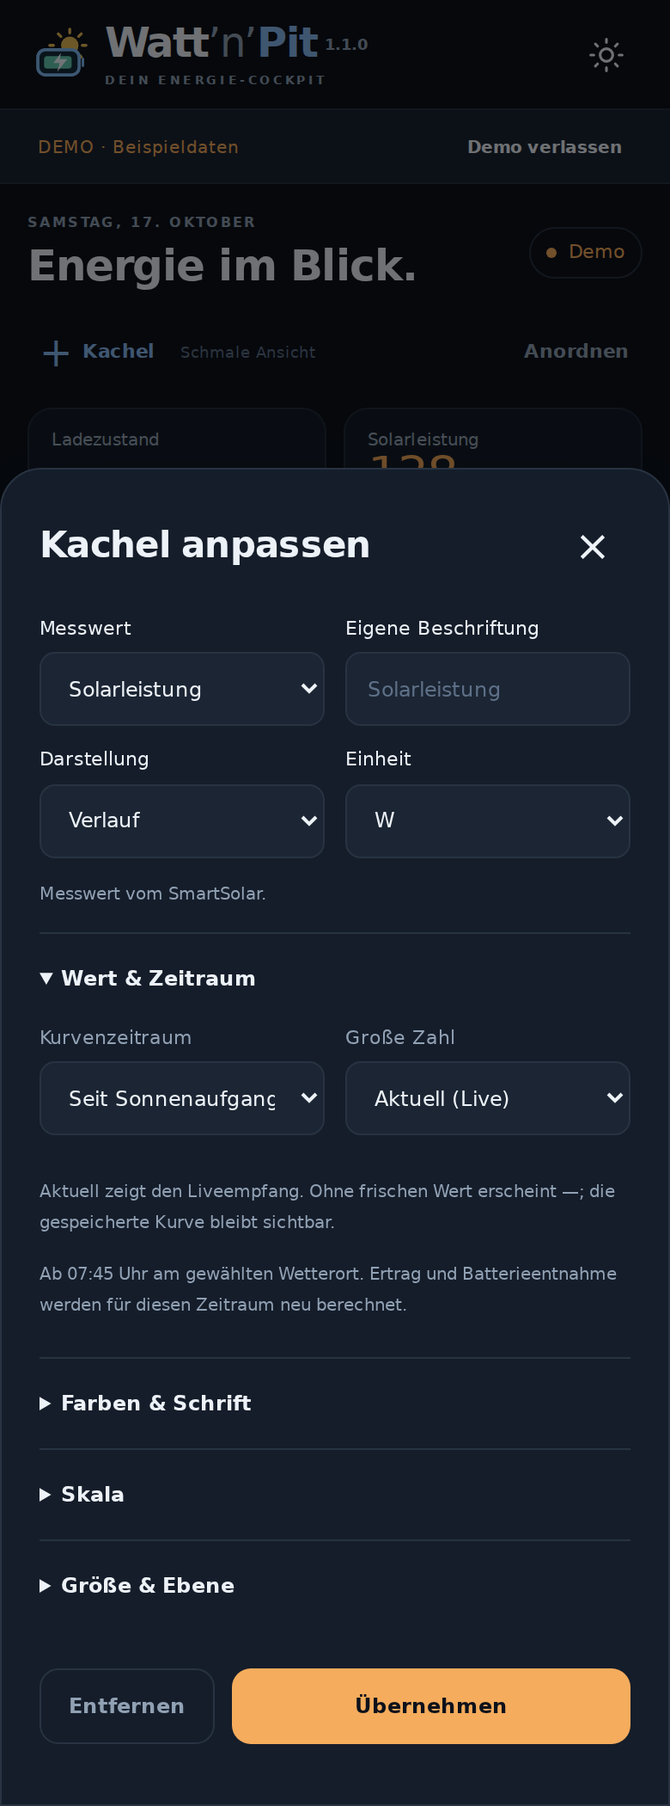
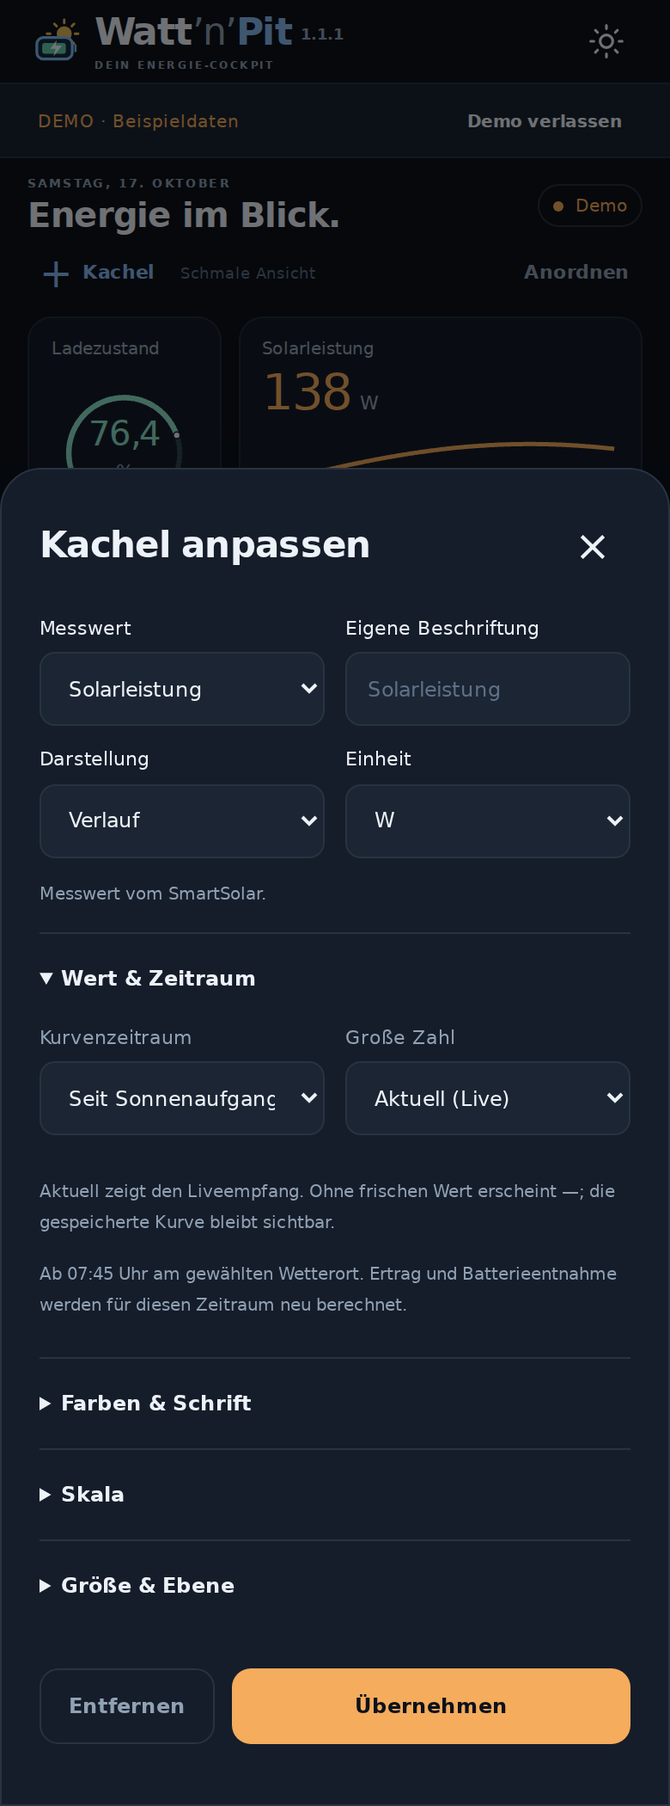
Watt’n’Pit 1.1.1: kompakte Übersicht und neue Standardanordnung
Kacheln und Darstellung aus der Einstellungsdatei übernehmen, Kopfbereich straffen und Anleitung samt neutralen Screenshots aktualisieren.

Validiert: 59 JVM-Tests, 46 Node-Tests, UI-Prüfungen, Android-Lint und Release-Build. Die signierte APK verwendet das bisherige Update-Zertifikat.

diff --git a/app/src/main/assets/dashboard.css b/app/src/main/assets/dashboard.css
@@ -1,8 +1,8 @@
 /* A light frame leaves the space to the values. */
 :root{--tile-line:color-mix(in srgb,var(--border) 72%,transparent)}
-.topbar{padding:10px 18px 9px}.brand{gap:8px}.brandmark{width:35px;height:35px}.wordmark{font-size:24px;letter-spacing:-.8px;font-weight:650}.wordmark .wordmark-n{color:var(--muted);font-weight:450}.wordmark>span:last-of-type{color:var(--blue)}.wordmark small{font-size:9px;border:0;margin-left:5px;padding:0}.brandline{font-size:7px;letter-spacing:1.8px;margin-top:2px}.topbar>.iconbutton{border:0;width:38px;min-width:38px}.pagehead{margin-bottom:13px}.pagehead h1{font-size:25px;font-weight:610;letter-spacing:-.75px}.pagehead .eyebrow{font-size:8px;letter-spacing:1.2px;margin-bottom:3px}main{padding:17px 16px 94px}.card{border-radius:15px;padding:17px;border-color:var(--tile-line)}.welcome{padding:15px;border-left-width:2px;margin-bottom:14px}.welcome h2{font-size:15px}.welcome .row{gap:7px}.welcome .row>button{padding:8px 11px}.dashboard-toolbar{display:flex;align-items:center;justify-content:space-between;gap:8px;margin:0 4px 5px}.dashboard-toolbar>div{display:flex;align-items:center;gap:12px}.dashboard-toolbar .muted{font-size:9px;color:var(--faint)}.dashboard-toolbar>.textbutton{color:var(--muted);font-size:11px}.add-tile{display:flex;align-items:center;gap:6px;font-size:11px;color:var(--blue);font-weight:600;min-height:37px;padding:0 3px}.add-tile>span{font-size:23px;font-weight:350}.dashboard-board{position:relative;margin:0 -5px;isolation:isolate}.cockpit-tile{position:absolute;display:flex;flex-direction:column;min-width:0;border:1px solid var(--tile-line);border-radius:14px;background:var(--tile-bg,var(--panel));padding:11px 13px 9px;overflow:hidden;cursor:pointer;touch-action:pan-y}.cockpit-tile:focus-visible{outline:2px solid var(--blue);outline-offset:1px}.tile-head{display:flex;justify-content:space-between;align-items:center;gap:3px;min-height:14px;flex-shrink:0}.tile-label{color:var(--tile-muted,var(--muted));font-size:10px;font-weight:500;line-height:1.2;min-width:0;white-space:nowrap;overflow:hidden;text-overflow:ellipsis;letter-spacing:.05px}.tile-menu{display:none;align-items:center;justify-content:center;min-height:22px;width:25px;min-width:25px;padding:0;font-size:22px;line-height:1;border-radius:5px;color:var(--blue)}.tile-visual{display:flex;flex-direction:column;justify-content:center;flex:1;min-height:0;min-width:0}.tile-reading{display:flex;align-items:baseline;gap:5px;min-width:0;line-height:1.1;margin:3px 0}.tile-number{font-size:var(--number-size,32px);letter-spacing:-.8px;line-height:1.08;font-weight:530;color:var(--tile-color);font-variant-numeric:tabular-nums;white-space:nowrap;min-width:0}.tile-unit{font-size:11px;color:var(--tile-muted,var(--muted));font-weight:450;letter-spacing:0;white-space:nowrap}.tile-hint{font-size:9px;line-height:1.15;color:var(--tile-muted,var(--muted));overflow:hidden;white-space:nowrap;text-overflow:ellipsis;flex-shrink:0;min-height:10px}.cockpit-tile.no-value .tile-number{color:var(--tile-muted,var(--muted))}.type-gauge{padding-bottom:7px}.tile-gauge{position:relative;max-width:165px;width:100%;height:100%;min-height:0;margin:auto}.tile-gauge>svg{width:100%;height:100%;display:block}.gauge-reading{position:absolute;inset:0;display:flex;align-items:center;justify-content:center;flex-direction:column;gap:4px;padding-top:5px}.gauge-reading .tile-number{font-size:var(--number-size)}.gauge-min,.gauge-max{position:absolute;bottom:3px;font-size:8px;color:var(--tile-muted,var(--muted))}.gauge-min{left:14%}.gauge-max{right:14%}.type-gauge .tile-hint{text-align:center}.tile-sparkline{width:100%;height:100%;min-height:24px;flex:1;margin:4px 0 0}.chart-reading .tile-number{font-size:min(var(--number-size),29px)}.tile-chart-range{display:flex;justify-content:space-between;font-size:8px;color:var(--tile-muted,var(--muted));margin-bottom:5px}.tile-chart-empty{flex:1;display:flex;align-items:center;justify-content:center;color:var(--tile-muted,var(--muted));font-size:10px}.tile-resize{display:none;position:absolute;bottom:0;right:0;width:27px;height:27px;cursor:nwse-resize}.tile-resize:after{content:'';position:absolute;right:6px;bottom:6px;width:8px;height:8px;border-bottom:2px solid var(--blue);border-right:2px solid var(--blue);border-radius:1px}.is-editing .cockpit-tile{touch-action:none;outline:1px dashed color-mix(in srgb,var(--blue) 45%,transparent);cursor:grab}.is-editing .tile-menu,.is-editing .tile-resize{display:flex}.is-editing .tile-label{padding-right:2px}.is-editing .cockpit-tile{padding-top:6px}.is-editing .cockpit-tile.is-dragging{z-index:100;cursor:grabbing;box-shadow:0 4px 24px #0003}.is-editing.dashboard-board{background-image:radial-gradient(var(--border) .8px,transparent .8px);background-size:calc(100% / 12) 26px}.layout-help{font-size:10px;color:var(--muted);margin:0 3px 9px}.dashboard-foot{display:flex;justify-content:space-between;align-items:center;gap:8px;padding:9px 3px 14px;font-size:9px;color:var(--muted)}.dashboard-foot>span:first-child{display:flex;align-items:center;gap:6px}.empty-dashboard{padding:20px;border:1px dashed var(--border);border-radius:14px;text-align:center;font-size:12px;color:var(--muted)}.mini-history{padding:14px 14px 7px}.mini-history h2{font-size:14px;font-weight:550}.mini-history .eyebrow{font-size:7px}.mini-history .section-heading{align-items:center}.mini-history .textbutton{font-size:10px}.mini-legend{margin-top:5px;font-size:9px}#miniChart{height:125px}.info-note{margin:12px 2px}.info-note p{font-size:10px}.record-button{min-height:43px;border-radius:11px;font-size:11px}.bottom-nav{padding-top:7px;padding-bottom:max(7px,env(safe-area-inset-bottom))}.bottom-nav button{min-height:45px;gap:2px}.bottom-nav .icon{width:20px;height:20px}.tile-editor details{border-top:1px solid var(--border);padding:9px 0}.tile-editor summary{padding:8px 0;cursor:pointer;font-size:12px;font-weight:600}.tile-editor details>.form-grid{padding-top:10px}.form-grid{display:grid;grid-template-columns:1fr 1fr;gap:0 12px;min-width:0}.form-grid>*{min-width:0}.tile-editor .form-field{font-size:11px;gap:5px;margin-bottom:12px}.tile-editor input,.tile-editor select{width:100%;font-size:12px;min-width:0}.tile-editor input[type=color]{height:43px;padding:5px;width:100%}.tile-editor input[type=range]{accent-color:var(--blue);padding-left:0;padding-right:0;background:transparent;border:0}.tile-editor .check-field{display:flex;align-items:center;gap:9px;font-size:12px;margin:8px 0 13px}.tile-editor input[type=checkbox]{width:18px;height:18px;min-height:18px;accent-color:var(--blue)}.tile-explanation{font-size:10px!important;margin-bottom:13px!important}.tile-editor details .muted{font-size:10px;margin:12px 0}.tile-editor .row>button{font-size:10px;padding:7px 9px;min-height:36px}.danger-text{color:var(--muted)}.tile-catalog h3{font-size:10px;font-weight:600;color:var(--muted);text-transform:uppercase;letter-spacing:1px;padding:14px 0 5px}.metric-option{width:100%;display:flex;align-items:center;gap:12px;text-align:left;min-height:47px;border-bottom:1px solid var(--tile-line);font-size:12px}.metric-option>i{width:7px;height:7px;border-radius:50%;flex-shrink:0}.metric-option>span{flex:1}.metric-option>b{font-size:20px;font-weight:400;color:var(--muted)}.metric-option:hover{background:var(--panel2)}.settings-card #resetDashboard{margin:12px 0 0;font-size:11px}.about>.brandmark{width:42px;height:42px}
-@media(min-width:700px){.topbar{padding:12px 25px}.brandmark{width:39px;height:39px}.wordmark{font-size:27px}main{padding:23px 23px 100px}.pagehead h1{font-size:29px}.dashboard-board{max-width:100%}.cockpit-tile{padding:13px 17px 10px}.tile-label{font-size:11px}.tile-number{font-weight:550}.tile-hint{font-size:10px}.tile-gauge{max-width:180px}.dashboard-foot{font-size:10px}.is-editing.dashboard-board{background-size:calc(100% / 12) 30px}#miniChart{height:170px}.mini-history{padding:17px}.mini-history h2{font-size:17px}.bottom-nav{padding-left:24%;padding-right:24%}}
-@media(max-width:355px){main{padding-left:12px;padding-right:12px}.topbar{padding-left:14px;padding-right:14px}.wordmark{font-size:23px}.cockpit-tile{padding-left:10px;padding-right:10px}.tile-label{font-size:9px}.tile-number{font-size:min(var(--number-size),30px)}.tile-hint{font-size:8px}.dashboard-toolbar .muted{display:none}.tile-unit{font-size:10px}}
+.topbar{padding:2px 18px}.brand{gap:7px}.brandmark{width:30px;height:30px}.wordmark{font-size:22px;letter-spacing:-.8px;font-weight:650}.wordmark .wordmark-n{color:var(--muted);font-weight:450}.wordmark>span:last-of-type{color:var(--blue)}.wordmark small{font-size:9px;border:0;margin-left:5px;padding:0}.brandline{font-size:6px;letter-spacing:1.4px;margin-top:0}.topbar>.iconbutton{border:0;width:38px;min-width:38px}.pagehead{margin-bottom:13px}.pagehead h1{font-size:25px;font-weight:610;letter-spacing:-.75px}.pagehead .eyebrow{font-size:8px;letter-spacing:1.2px;margin-bottom:3px}main{padding:10px 16px 94px}#overview>.pagehead{margin-bottom:4px}#overview>.pagehead h1{font-size:20px;letter-spacing:-.5px}#overview>.pagehead .eyebrow{font-size:7px;margin-bottom:0}#overview .status-chip{padding:4px 8px;font-size:10px}.card{border-radius:15px;padding:17px;border-color:var(--tile-line)}.welcome{padding:15px;border-left-width:2px;margin-bottom:14px}.welcome h2{font-size:15px}.welcome .row{gap:7px}.welcome .row>button{padding:8px 11px}.dashboard-toolbar{display:flex;align-items:center;justify-content:space-between;gap:8px;margin:0 4px 1px}.dashboard-toolbar>div{display:flex;align-items:center;gap:12px}.dashboard-toolbar .muted{font-size:9px;color:var(--faint)}.dashboard-toolbar>.textbutton{min-height:36px;color:var(--muted);font-size:11px}.add-tile{display:flex;align-items:center;gap:6px;font-size:11px;color:var(--blue);font-weight:600;min-height:36px;padding:0 3px}.add-tile>span{font-size:23px;font-weight:350}.dashboard-board{position:relative;margin:0 -5px;isolation:isolate}.cockpit-tile{position:absolute;display:flex;flex-direction:column;min-width:0;border:1px solid var(--tile-line);border-radius:14px;background:var(--tile-bg,var(--panel));padding:11px 13px 9px;overflow:hidden;cursor:pointer;touch-action:pan-y}.cockpit-tile:focus-visible{outline:2px solid var(--blue);outline-offset:1px}.tile-head{display:flex;justify-content:space-between;align-items:center;gap:3px;min-height:14px;flex-shrink:0}.tile-label{color:var(--tile-muted,var(--muted));font-size:10px;font-weight:500;line-height:1.2;min-width:0;white-space:nowrap;overflow:hidden;text-overflow:ellipsis;letter-spacing:.05px}.tile-menu{display:none;align-items:center;justify-content:center;min-height:22px;width:25px;min-width:25px;padding:0;font-size:22px;line-height:1;border-radius:5px;color:var(--blue)}.tile-visual{display:flex;flex-direction:column;justify-content:center;flex:1;min-height:0;min-width:0}.tile-reading{display:flex;align-items:baseline;gap:5px;min-width:0;line-height:1.1;margin:3px 0}.tile-number{font-size:var(--number-size,32px);letter-spacing:-.8px;line-height:1.08;font-weight:530;color:var(--tile-color);font-variant-numeric:tabular-nums;white-space:nowrap;min-width:0}.tile-unit{font-size:11px;color:var(--tile-muted,var(--muted));font-weight:450;letter-spacing:0;white-space:nowrap}.tile-hint{font-size:9px;line-height:1.15;color:var(--tile-muted,var(--muted));overflow:hidden;white-space:nowrap;text-overflow:ellipsis;flex-shrink:0;min-height:10px}.cockpit-tile.no-value .tile-number{color:var(--tile-muted,var(--muted))}.type-gauge{padding-bottom:7px}.tile-gauge{position:relative;max-width:165px;width:100%;height:100%;min-height:0;margin:auto}.tile-gauge>svg{width:100%;height:100%;display:block}.gauge-reading{position:absolute;inset:0;display:flex;align-items:center;justify-content:center;flex-direction:column;gap:4px;padding-top:5px}.gauge-reading .tile-number{font-size:var(--number-size)}.gauge-min,.gauge-max{position:absolute;bottom:3px;font-size:8px;color:var(--tile-muted,var(--muted))}.gauge-min{left:14%}.gauge-max{right:14%}.type-gauge .tile-hint{text-align:center}.tile-sparkline{width:100%;height:100%;min-height:24px;flex:1;margin:4px 0 0}.chart-reading .tile-number{font-size:min(var(--number-size),29px)}.tile-chart-range{display:flex;justify-content:space-between;font-size:8px;color:var(--tile-muted,var(--muted));margin-bottom:5px}.tile-chart-empty{flex:1;display:flex;align-items:center;justify-content:center;color:var(--tile-muted,var(--muted));font-size:10px}.tile-resize{display:none;position:absolute;bottom:0;right:0;width:27px;height:27px;cursor:nwse-resize}.tile-resize:after{content:'';position:absolute;right:6px;bottom:6px;width:8px;height:8px;border-bottom:2px solid var(--blue);border-right:2px solid var(--blue);border-radius:1px}.is-editing .cockpit-tile{touch-action:none;outline:1px dashed color-mix(in srgb,var(--blue) 45%,transparent);cursor:grab}.is-editing .tile-menu,.is-editing .tile-resize{display:flex}.is-editing .tile-label{padding-right:2px}.is-editing .cockpit-tile{padding-top:6px}.is-editing .cockpit-tile.is-dragging{z-index:100;cursor:grabbing;box-shadow:0 4px 24px #0003}.is-editing.dashboard-board{background-image:radial-gradient(var(--border) .8px,transparent .8px);background-size:calc(100% / 12) 26px}.layout-help{font-size:10px;color:var(--muted);margin:0 3px 9px}.dashboard-foot{display:flex;justify-content:space-between;align-items:center;gap:8px;padding:9px 3px 14px;font-size:9px;color:var(--muted)}.dashboard-foot>span:first-child{display:flex;align-items:center;gap:6px}.empty-dashboard{padding:20px;border:1px dashed var(--border);border-radius:14px;text-align:center;font-size:12px;color:var(--muted)}.mini-history{padding:14px 14px 7px}.mini-history h2{font-size:14px;font-weight:550}.mini-history .eyebrow{font-size:7px}.mini-history .section-heading{align-items:center}.mini-history .textbutton{font-size:10px}.mini-legend{margin-top:5px;font-size:9px}#miniChart{height:125px}.info-note{margin:12px 2px}.info-note p{font-size:10px}.record-button{min-height:43px;border-radius:11px;font-size:11px}.bottom-nav{padding-top:7px;padding-bottom:max(7px,env(safe-area-inset-bottom))}.bottom-nav button{min-height:45px;gap:2px}.bottom-nav .icon{width:20px;height:20px}.tile-editor details{border-top:1px solid var(--border);padding:9px 0}.tile-editor summary{padding:8px 0;cursor:pointer;font-size:12px;font-weight:600}.tile-editor details>.form-grid{padding-top:10px}.form-grid{display:grid;grid-template-columns:1fr 1fr;gap:0 12px;min-width:0}.form-grid>*{min-width:0}.tile-editor .form-field{font-size:11px;gap:5px;margin-bottom:12px}.tile-editor input,.tile-editor select{width:100%;font-size:12px;min-width:0}.tile-editor input[type=color]{height:43px;padding:5px;width:100%}.tile-editor input[type=range]{accent-color:var(--blue);padding-left:0;padding-right:0;background:transparent;border:0}.tile-editor .check-field{display:flex;align-items:center;gap:9px;font-size:12px;margin:8px 0 13px}.tile-editor input[type=checkbox]{width:18px;height:18px;min-height:18px;accent-color:var(--blue)}.tile-explanation{font-size:10px!important;margin-bottom:13px!important}.tile-editor details .muted{font-size:10px;margin:12px 0}.tile-editor .row>button{font-size:10px;padding:7px 9px;min-height:36px}.danger-text{color:var(--muted)}.tile-catalog h3{font-size:10px;font-weight:600;color:var(--muted);text-transform:uppercase;letter-spacing:1px;padding:14px 0 5px}.metric-option{width:100%;display:flex;align-items:center;gap:12px;text-align:left;min-height:47px;border-bottom:1px solid var(--tile-line);font-size:12px}.metric-option>i{width:7px;height:7px;border-radius:50%;flex-shrink:0}.metric-option>span{flex:1}.metric-option>b{font-size:20px;font-weight:400;color:var(--muted)}.metric-option:hover{background:var(--panel2)}.settings-card #resetDashboard{margin:12px 0 0;font-size:11px}.about>.brandmark{width:42px;height:42px}
+@media(min-width:700px){.topbar{padding:4px 25px}.brandmark{width:32px;height:32px}.wordmark{font-size:24px}main{padding:12px 23px 100px}.pagehead h1{font-size:29px}#overview>.pagehead h1{font-size:22px}.dashboard-board{max-width:100%}.cockpit-tile{padding:13px 17px 10px}.tile-label{font-size:11px}.tile-number{font-weight:550}.tile-hint{font-size:10px}.tile-gauge{max-width:180px}.dashboard-foot{font-size:10px}.is-editing.dashboard-board{background-size:calc(100% / 12) 30px}#miniChart{height:170px}.mini-history{padding:17px}.mini-history h2{font-size:17px}.bottom-nav{padding-left:24%;padding-right:24%}}
+@media(max-width:355px){main{padding-left:12px;padding-right:12px}.topbar{padding-left:14px;padding-right:14px}.wordmark{font-size:21px}.cockpit-tile{padding-left:10px;padding-right:10px}.tile-label{font-size:9px}.tile-number{font-size:min(var(--number-size),30px)}.tile-hint{font-size:8px}.dashboard-toolbar .muted{display:none}.tile-unit{font-size:10px}}
 .short-tile{padding-top:9px;padding-bottom:8px}.short-tile .tile-hint{display:none}.short-tile .tile-number{font-size:min(var(--number-size),29px)}.short-tile .tile-reading{margin:3px 0 0}.cockpit-tile{user-select:none}
 
 .mini-range{display:flex;align-items:center;justify-content:space-between;gap:12px;font-size:11px;color:var(--muted);margin-top:12px}.mini-range select{max-width:220px;font-size:11px}.mini-history #miniPeriodNote{font-size:10px;margin-top:8px}.energy-note{margin:10px 0 14px;line-height:1.7}

diff --git a/app/src/main/assets/index.html b/app/src/main/assets/index.html
@@ -11,7 +11,7 @@
 </head>
 <body>
 <header class="topbar">
-  <div class="brand"><img class="brandmark" src="brand.svg" alt="Sonne und Batterie"><div><div class="wordmark">Watt<span class="wordmark-n">’n’</span><span>Pit</span><small>1.1.0</small></div><div class="brandline">DEIN ENERGIE-COCKPIT</div></div></div>
+  <div class="brand"><img class="brandmark" src="brand.svg" alt="Sonne und Batterie"><div><div class="wordmark">Watt<span class="wordmark-n">’n’</span><span>Pit</span><small>1.1.1</small></div><div class="brandline">DEIN ENERGIE-COCKPIT</div></div></div>
   <button class="iconbutton" id="themeToggle" aria-label="Farbschema wechseln"></button>
 </header>
 <div id="demoBar" class="demo-bar" hidden><span>DEMO · Beispieldaten</span><button id="exitDemo">Demo verlassen</button></div>
@@ -67,7 +67,7 @@
   <article class="card settings-card"><div class="section-heading"><div><h2>Deine Solaranlage</h2><p id="equipmentTotal" class="muted"></p></div><button id="editEquipment" class="textbutton">Bearbeiten</button></div><div id="equipmentGroups"></div><p class="muted equipment-disclaimer">Hier beschreibst du deine Module und Regler. Die Angaben ändern keine Geräteparameter. Livewerte kommen weiterhin vom jeweiligen Messgerät.</p></article>
   <article class="card settings-card"><h2>Einstellungen sichern</h2><p class="muted">Kacheln samt Anordnung, Farben, Zeiträume, Wetterort und Solaranlage als Datei sichern oder wieder einlesen. Ohne Messdaten, Geräteadressen, PINs und Verbindungsschlüssel.</p><div class="row"><button class="quiet" id="exportConfiguration">Einstellungen exportieren</button><button class="quiet" id="importConfiguration">Einstellungen importieren</button></div></article>
   <article class="card settings-card"><h2>Lokal. Ohne Konto.</h2><p class="muted">Watt’n’Pit empfängt deine Geräte direkt. Messwerte und Geräteschlüssel bleiben auf diesem Telefon. Kein Konto, keine Werbung. Nur die optionale Ortssuche und Wettervorschau nutzen Internet: Suchtext bzw. Ortskoordinaten gehen an Open-Meteo. Energiedaten und Geräteschlüssel werden nicht übertragen.</p><div class="row"><button class="quiet" id="settingsImport">CSV importieren</button><button class="quiet" id="settingsExport">CSV exportieren</button></div></article>
-  <div class="about"><img class="brandmark" src="brand.svg" alt="Sonne und Batterie"><strong>Watt’n’Pit 1.1.0</strong><p>Dein Energie-Cockpit.</p><button class="textbutton" id="settingsDemo">Demo ansehen</button></div>
+  <div class="about"><img class="brandmark" src="brand.svg" alt="Sonne und Batterie"><strong>Watt’n’Pit 1.1.1</strong><p>Dein Energie-Cockpit.</p><button class="textbutton" id="settingsDemo">Demo ansehen</button></div>
 </section>
 </main>
 <nav class="bottom-nav" aria-label="Hauptnavigation"><button data-page="overview" class="active"><span id="navOverview"></span>Übersicht</button><button data-page="history"><span id="navHistory"></span>Verlauf</button><button data-page="devices"><span id="navDevices"></span>Geräte</button><button data-page="settings"><span id="navSettings"></span>Einstellungen</button></nav>

diff --git a/app/src/main/assets/dashboard-core.js b/app/src/main/assets/dashboard-core.js
@@ -114,10 +114,10 @@
     return result;
   }
   function defaults() {
-    const ids=['soc','solar','dischargeEnergy','solarEnergy','voltage','remaining','power','weather'];
+    const ids=['soc','solar','energyBalance','solarEnergy','voltage','power','weather','dischargeEnergy'];
     const layouts={
-      compact:[[0,0,6,6],[6,0,6,5],[0,6,6,5],[6,5,6,6],[0,11,4,4],[4,11,4,4],[8,11,4,4],[0,15,12,4]],
-      wide:[[0,0,4,6],[4,3,4,3],[0,9,4,6],[8,0,4,3],[0,6,6,3],[4,0,4,3],[8,3,4,3],[0,15,12,4]]
+      compact:[[0,0,4,6],[4,0,8,6],[0,6,6,6],[6,6,6,6],[0,12,4,3],[0,15,4,3],[0,18,12,4],[4,12,8,6]],
+      wide:[[0,0,4,6],[4,3,4,3],[0,9,4,6],[8,0,4,3],[0,6,6,3],[8,3,4,3],[0,15,12,4],[0,19,4,6]]
     };
     return {version:1,dischargeSignVersion:1,blockOrder:[...BLOCK_ORDER],tiles:ids.map((id,i)=>{
       const t=tile(id,'default-'+id);
@@ -125,6 +125,7 @@
       if(id==='soc'){t.fontSize=20;t.scaleMode='auto';}
       if(id==='solar'){t.type='chart';t.scaleMode='auto';t.valueMode='live';t.period.mode='sunrise';}
       if(id==='solarEnergy')t.period.mode='sunrise';
+      if(id==='power')t.title='Aktuell';
       return t;
     })};
   }

diff --git a/app/src/main/java/de/wattpit/app/Repository.java b/app/src/main/java/de/wattpit/app/Repository.java
@@ -40,7 +40,7 @@ final class Repository {
         JSONObject all=new JSONObject(prefs.getString("archiveDiagnostics","{}"));all.put(kind,result);prefs.edit().putString("archiveDiagnostics",all.toString()).apply();
     }
     synchronized String diagnosticText()throws JSONException{
-        JSONObject all=new JSONObject(prefs.getString("archiveDiagnostics","{}"));StringBuilder text=new StringBuilder("Watt’n’Pit 1.1.0 · Archivdiagnose\n");
+        JSONObject all=new JSONObject(prefs.getString("archiveDiagnostics","{}"));StringBuilder text=new StringBuilder("Watt’n’Pit 1.1.1 · Archivdiagnose\n");
         for(String kind:new String[]{"solar","shunt"}){
             JSONObject d=all.optJSONObject(kind);if(d==null)continue;text.append(kind.equals("solar")?"\nSolarladeregler\n":"\nBatteriewächter\n");
             text.append(d.optString("result")).append('\n');JSONArray lines=d.optJSONArray("steps");if(lines!=null)for(int i=0;i<lines.length();i++)text.append("· ").append(lines.getString(i)).append('\n');

diff --git a/README.md b/README.md
@@ -2,23 +2,25 @@
 
 **Dein Energie-Cockpit.** Solar, Akku und Batteriebilanz auf einen Blick – direkt über Bluetooth, mit lokaler Aufzeichnung und frei gestaltbarer Übersicht.
 
-**[Android-APK 1.1.0 herunterladen](https://github.com/Tim-Gurke/Watt-n-Pit/releases/download/v1.1.0/Watt-n-Pit-v1.1.0.apk)** · [Release](https://github.com/Tim-Gurke/Watt-n-Pit/releases/latest) · **[Anleitung mit Screenshots](docs/ANLEITUNG.md)** · [CSV-Import](docs/CSV-IMPORT.md)
+**[Android-APK 1.1.1 herunterladen](https://github.com/Tim-Gurke/Watt-n-Pit/releases/download/v1.1.1/Watt-n-Pit-v1.1.1.apk)** · [Release](https://github.com/Tim-Gurke/Watt-n-Pit/releases/latest) · **[Anleitung mit Screenshots](docs/ANLEITUNG.md)** · [CSV-Import](docs/CSV-IMPORT.md)
 
 Android 8 oder neuer · Kein Konto · Keine Werbung · Unabhängiges Projekt, kein offizielles Victron-Produkt.
 
 ## So sieht es aus
 
-Die Screenshots zeigen die App-Oberfläche von **1.1.0 mit frei erfundenen Beispieldaten**. Wetterort und Gerätekennungen sind neutral; private Messungen und Verbindungscodes werden nicht veröffentlicht.
+Die Screenshots zeigen die App-Oberfläche von **1.1.1 mit frei erfundenen Beispieldaten**. Wetterort und Gerätekennungen sind neutral; private Messungen und Verbindungscodes werden nicht veröffentlicht.
 
 | Dunkles Design | Helles Design |
 |---|---|
-| ![Watt’n’Pit 1.1.0: Übersicht mit Solar-, Akku- und Wetterkacheln, dunkel](docs/images/overview-dark.png) | ![Dieselbe Übersicht im hellen Design](docs/images/overview-light.png) |
+| ![Watt’n’Pit 1.1.1: Übersicht mit Solar-, Akku- und Wetterkacheln, dunkel](docs/images/overview-dark.png) | ![Dieselbe Übersicht im hellen Design](docs/images/overview-light.png) |
 
-*Die Standardübersicht: Ladezustand und aktuelle Solarleistung oben, negative Batterieentnahme und berechneter Solarertrag darunter, anschließend Batteriespannung, Restlaufzeit in Stunden und Batteriebilanz. Die flache Wetterkachel schließt den Kachelblock ab.*
+*Die Standardübersicht: Ladezustand und aktuelle Solarleistung oben, „Ertrag − Entnahme“ und berechneter Solarertrag darunter. Anschließend stehen Batteriespannung und aktuelle Batteriebilanz links neben der negativen Batterieentnahme. Die flache Wetterkachel schließt den Kachelblock ab.*
 
-Solarleistung und berechneter Solarertrag beginnen standardmäßig **seit Sonnenaufgang**; die Batterieentnahme zählt **ab Tagesbeginn**. Alle drei Verlaufskacheln verwenden automatische Skalen. Neue Installationen und „Standardübersicht wiederherstellen“ erhalten diese Anordnung; beim Update bleiben gespeicherte eigene Übersichten erhalten.
+Solarleistung und berechneter Solarertrag beginnen standardmäßig **seit Sonnenaufgang**; „Ertrag − Entnahme“ und Batterieentnahme zählen **ab Tagesbeginn**. Alle vier Verlaufskacheln verwenden automatische Skalen. Neue Installationen und „Standardübersicht wiederherstellen“ erhalten diese Anordnung; beim Update bleiben gespeicherte eigene Übersichten erhalten.
 
-## Das kann 1.1.0
+Appkopf, Datum, Überschrift und Kachelwerkzeuge sind kompakter: Die Messwerte beginnen auf schmalen Bildschirmen rund 54 Pixel weiter oben als in 1.1.0. Die Restlaufzeit bleibt unter **+ Kachel → Akku → Restlaufzeit** verfügbar.
+
+## Das kann 1.1.1
 
 - **Direkter Empfang:** SmartSolar und SmartShunt liefern Livewerte über die Bluetooth-Sofortanzeige. Messdaten und Geräteschlüssel bleiben auf dem Telefon.
 - **Archive automatisch ergänzen:** Beim App-Start liest Watt’n’Pit vorhandene Gerätearchive nacheinander ein. Vorhandene Werte werden abgeglichen, Lücken ergänzt und Archivpunkte nicht doppelt gespeichert.
@@ -37,7 +39,7 @@ Solarleistung und berechneter Solarertrag beginnen standardmäßig **seit Sonnen
 
 ## In fünf Schritten starten
 
-1. Die [APK herunterladen](https://github.com/Tim-Gurke/Watt-n-Pit/releases/download/v1.1.0/Watt-n-Pit-v1.1.0.apk) und installieren. Für Updates die neue APK über die bestehende Installation installieren.
+1. Die [APK herunterladen](https://github.com/Tim-Gurke/Watt-n-Pit/releases/download/v1.1.1/Watt-n-Pit-v1.1.1.apk) und installieren. Für Updates die neue APK über die bestehende Installation installieren.
 2. In **VictronConnect → Einstellungen → ⋮ → Produktinfo** die **Sofortanzeige über Bluetooth** des jeweiligen Geräts einschalten.
 3. Unter **Sofortanzeige-Details → Anzeigen** die Geräteadresse und den **32-stelligen Verschlüsselungsschlüssel** übernehmen.
 4. In Watt’n’Pit unter **Geräte → Suche starten** das Gerät einrichten oder mit **+** manuell hinzufügen. Jeder Geräteschlüssel gehört zu genau einem Gerät.
@@ -73,11 +75,11 @@ Nur die optionale Ortssuche und Wettervorschau nutzen Internet: Suchtext bzw. Or
 
 ## Kompatibilität und Stand
 
-SmartSolar 75/15 mit Bluetooth und SmartShunt 300 A wurden an realer Hardware erprobt. Der vollständige Archivimport und die Verlaufsanzeige sind seit 0.1.5 bestätigt; Übersicht und kompakte Wetterkachel wurden bis 0.1.9 ebenfalls am Android-Gerät bestätigt. Die neuen Standardzeiträume und beide Anordnungen von 1.1.0 werden zusätzlich automatisiert geprüft. Weitere Victron-Geräte sind **nicht pauschal als kompatibel bestätigt**. In dieser Version lässt sich je ein SmartSolar und ein SmartShunt einrichten.
+SmartSolar 75/15 mit Bluetooth und SmartShunt 300 A wurden an realer Hardware erprobt. Der vollständige Archivimport und die Verlaufsanzeige sind seit 0.1.5 bestätigt; Übersicht und kompakte Wetterkachel wurden bis 0.1.9 ebenfalls am Android-Gerät bestätigt. Die neuen Standardzeiträume und beide Anordnungen von 1.1.1 werden zusätzlich automatisiert geprüft. Weitere Victron-Geräte sind **nicht pauschal als kompatibel bestätigt**. In dieser Version lässt sich je ein SmartSolar und ein SmartShunt einrichten.
 
 Die App ändert keine Ladeparameter und löscht keine Gerätetrends. Temperatur und Zusatzspannung benötigen einen entsprechend eingerichteten Geräteeingang. Eine lang laufende Aufzeichnung kann durch Android-Energiespareinstellungen begrenzt werden.
 
-Automatisierte Prüfung: **59 JVM-Tests, 46 Node-Tests**, Android-Lint und Android-Build sowie Browserprüfungen für Bedienung, Speicherung, Importabgleich, Sonnenaufgang, Skalen, Energiekurven und Farbdesigns. Die neue Vergleichskachel wurde zusätzlich mit Darstellung, Einheitenwechsel, fehlenden Werten und Einstellungsexport/-import geprüft. Die Android-Dateiauswahl für Einstellungssicherungen ist zusätzlich am Gerät zu bestätigen. [Versionshinweise](docs/releases/1.1.0.md) · [Technische Grundlage](docs/ARCHITECTURE.md)
+Automatisierte Prüfung: **59 JVM-Tests, 46 Node-Tests**, Android-Lint und Android-Build sowie Browserprüfungen für Bedienung, Speicherung, Importabgleich, Sonnenaufgang, Skalen, Energiekurven und Farbdesigns. Die neue Vergleichskachel wurde zusätzlich mit Darstellung, Einheitenwechsel, fehlenden Werten und Einstellungsexport/-import geprüft. Die Android-Dateiauswahl für Einstellungssicherungen ist zusätzlich am Gerät zu bestätigen. [Versionshinweise](docs/releases/1.1.1.md) · [Technische Grundlage](docs/ARCHITECTURE.md)
 
 ## Entwicklung
 

diff --git a/docs/ANLEITUNG.md b/docs/ANLEITUNG.md
@@ -1,6 +1,6 @@
 # Watt’n’Pit bedienen
 
-Für Version **1.1.0** · [APK herunterladen](https://github.com/Tim-Gurke/Watt-n-Pit/releases/download/v1.1.0/Watt-n-Pit-v1.1.0.apk) · [Zur Projektübersicht](../README.md)
+Für Version **1.1.1** · [APK herunterladen](https://github.com/Tim-Gurke/Watt-n-Pit/releases/download/v1.1.1/Watt-n-Pit-v1.1.1.apk) · [Zur Projektübersicht](../README.md)
 
 Watt’n’Pit zeigt Solarleistung, Batteriezustand und gespeicherte Verläufe direkt auf deinem Android-Telefon. Die folgenden Screenshots stammen aus der App-Oberfläche mit **frei erfundenen Beispieldaten**. Wetterort und Gerätekennungen sind Beispiele; es sind keine privaten Verbindungsdaten enthalten. Eine sichtbare Demo liest keine Bluetooth-Geräte aus.
 
@@ -39,9 +39,11 @@ Falls nichts ankommt: Bluetooth und Reichweite prüfen, VictronConnect vom Gerä
 
 *Sieben Messkacheln und die kompakte Wetterkachel bilden den Standard. Werte, Farben, Größe und Position lassen sich anpassen.*
 
-Auf schmalen Bildschirmen stehen Ladezustand und Solarleistung oben. Darunter folgen negative Batterieentnahme und berechneter Solarertrag; die Dreierreihe zeigt Batteriespannung, Restlaufzeit in Stunden und Batteriebilanz. Das Wetter liegt flach über die gesamte Breite. Anschließend folgen Verlauf und Start/Pause.
+Auf schmalen Bildschirmen stehen der schmale Ladezustand und die breitere Solarleistung oben. Darunter folgen „Ertrag − Entnahme“ und berechneter Solarertrag nebeneinander. Batteriespannung und die mit „Aktuell“ beschriftete Batteriebilanz stehen links übereinander; rechts liegt die größere negative Batterieentnahme. Das Wetter liegt flach über die gesamte Breite. Anschließend folgen Verlauf und Start/Pause. Der Appkopf und „Energie im Blick“ benötigen weniger Höhe.
 
-Solarleistung und berechneter Solarertrag zeigen im Standard die Zeit **seit Sonnenaufgang**. Die Batterieentnahme bezieht sich auf **heute ab Mitternacht**. Die drei Verlaufskacheln passen ihre Skalen automatisch an die vorhandenen Werte an. Die breite Ansicht besitzt eine eigene gespeicherte Anordnung.
+Die Restlaufzeit kann über **+ Kachel → Akku → Restlaufzeit** ergänzt werden; Stunden sind weiterhin die voreingestellte Einheit.
+
+Solarleistung und berechneter Solarertrag zeigen im Standard die Zeit **seit Sonnenaufgang**. „Ertrag − Entnahme“ und Batterieentnahme beziehen sich auf **heute ab Mitternacht**. Die vier Verlaufskacheln passen ihre Skalen automatisch an die vorhandenen Werte an. Die breite Ansicht besitzt eine eigene gespeicherte Anordnung.
 
 **+ Kachel** öffnet die Auswahl. Neue Kacheln erscheinen am Ende des Rasters. Eine Messkachel antippen, um Beschriftung, Einheit, Darstellung und Zeitraum zu ändern. Als Darstellung stehen je nach Messgröße Zahl, Rundinstrument oder Verlauf zur Wahl.
 
@@ -121,7 +123,7 @@ Die Wetterkachel liegt im selben Raster wie die Messkacheln. **Anordnen** macht 
 
 *Einstellungen → Deine Solaranlage → Bearbeiten: Modulgruppen beschreiben und ihre Messwertquelle zuordnen. Die gezeigten Angaben sind frei erfunden.*
 
-Pro Solarkreis lassen sich Bezeichnung, Modulanzahl, Wp pro Modul, Montage und Regler eintragen. Als Messwertquelle stehen Bluetooth-Solarladeregler, Batteriebilanz des Shunts oder kein eigener Messwert zur Wahl. Die Nennleistung beschreibt deine Hardware; sie ersetzt keine Messung und ändert keine Geräteparameter. In 1.1.0 kann je ein SmartSolar und ein SmartShunt eingerichtet werden.
+Pro Solarkreis lassen sich Bezeichnung, Modulanzahl, Wp pro Modul, Montage und Regler eintragen. Als Messwertquelle stehen Bluetooth-Solarladeregler, Batteriebilanz des Shunts oder kein eigener Messwert zur Wahl. Die Nennleistung beschreibt deine Hardware; sie ersetzt keine Messung und ändert keine Geräteparameter. In 1.1.1 kann je ein SmartSolar und ein SmartShunt eingerichtet werden.
 
 ## 8. Einstellungen und Messdaten sichern
 

diff --git a/docs/releases/1.1.1.md b/docs/releases/1.1.1.md
@@ -1,0 +1,21 @@
+# Watt’n’Pit 1.1.1 – Mehr Platz für die Messwerte
+
+Die Standardübersicht übernimmt die gewünschte Kachelanordnung und Darstellung aus der aktuellen Einstellungsdatei. Der Kopfbereich wird flacher.
+
+- Oben stehen der schmale **Ladezustand** und die breitere **Solarleistung**.
+- Darunter liegen **Ertrag − Entnahme** und **Solarertrag berechnet** nebeneinander.
+- **Batteriespannung** und **Aktuell** stehen links übereinander; die größere **Batterieentnahme berechnet** liegt rechts daneben. Das Wetter schließt den Kachelblock über die gesamte Breite ab.
+- Größen und Positionen beider Ansichten sowie Farben, Einheiten, Schriftgrößen und Zeiträume entsprechen der Vorlage. Die Restlaufzeit lässt sich weiterhin als eigene Kachel hinzufügen.
+- Kleinere Abstände, Logo und Schrift im Appkopf sowie eine kompaktere Überschrift und Werkzeugleiste schaffen auf einer 390 Pixel breiten Ansicht rund **54 Pixel mehr Höhe für die Messwerte**.
+
+![Die kompaktere Standardübersicht im dunklen Design](https://raw.githubusercontent.com/Tim-Gurke/Watt-n-Pit/v1.1.1/docs/images/overview-dark.png)
+
+*Ausgelieferte Oberfläche mit frei erfundenen Beispieldaten und neutralem Wetterort.*
+
+Neue Installationen und **Einstellungen → Standardübersicht wiederherstellen** erhalten die neue Standardansicht. Bereits gespeicherte eigene Anordnungen bleiben beim Update erhalten. Die Einstellungsdatei kann wie bisher importiert werden.
+
+Prüfung: 59 JVM-Tests, 46 Node-Tests, Android-Lint sowie Debug- und Release-Build bestanden. Zusätzlich Browserprüfungen für schmale/breite Darstellung, helles/dunkles Design, Anordnung, Sonnenaufgang, Energiewerte, Neustart und Einstellungsexport/-import. Paketkennung, Versionsnummer, enthaltene Oberfläche und die bisherige Update-Signatur wurden am fertigen Paket geprüft.
+
+**[APK 1.1.1 herunterladen](https://github.com/Tim-Gurke/Watt-n-Pit/releases/download/v1.1.1/Watt-n-Pit-v1.1.1.apk)** · **[Anleitung mit Screenshots](https://github.com/Tim-Gurke/Watt-n-Pit/blob/v1.1.1/docs/ANLEITUNG.md)**
+
+Die neue APK über die bestehende Installation installieren. Sie verwendet dieselbe App-Kennung und denselben dauerhaften Signaturschlüssel.
